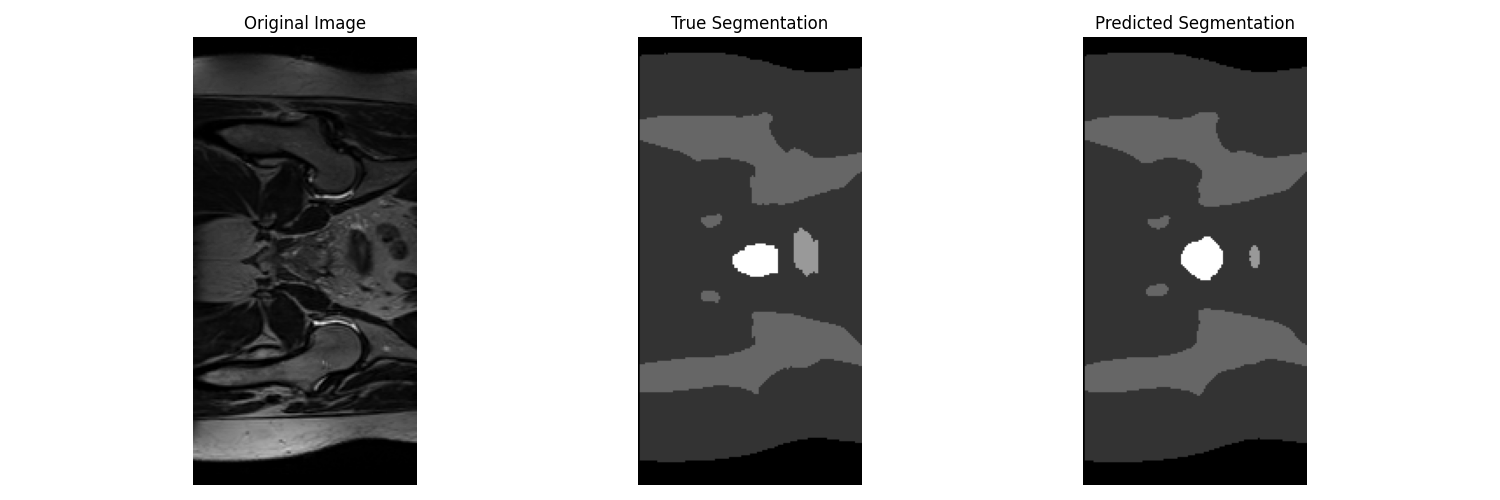
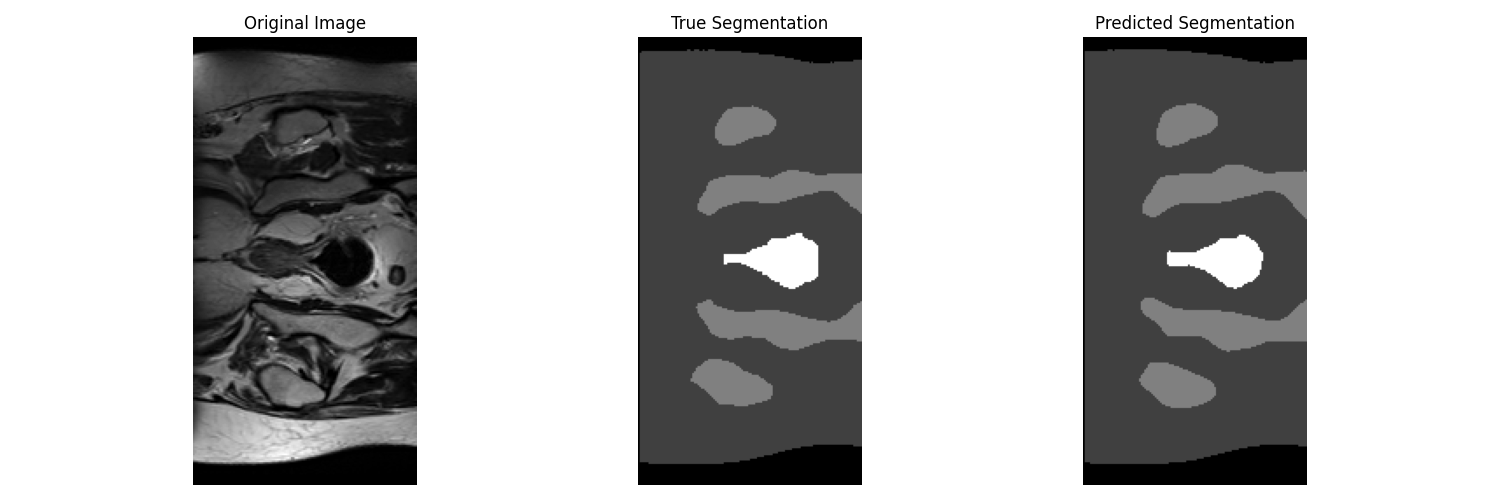
Changed model_path variable in predict.py and reran validation.

diff --git a/2D_Improved_UNET_47205145/predict.py b/2D_Improved_UNET_47205145/predict.py
@@ -12,7 +12,7 @@ device = torch.device("cuda" if torch.cuda.is_available() else "cpu")
 # Hyperparameters
 batch_size = 64
 num_classes = 6
-model_path = "model.pth"
+model_path = "2D_Improved_UNET_47205145/model.pth"
 
 # Dataset paths
 validate_images = "2D_Improved_UNET_47205145/HipMRI_Study_open/keras_slices_data/keras_slices_validate"
